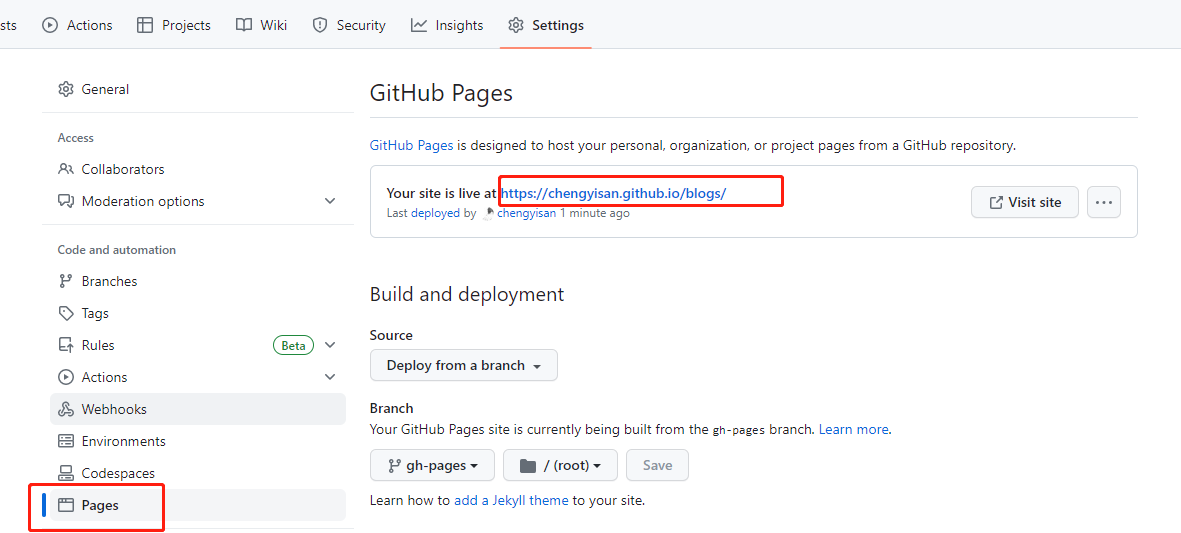
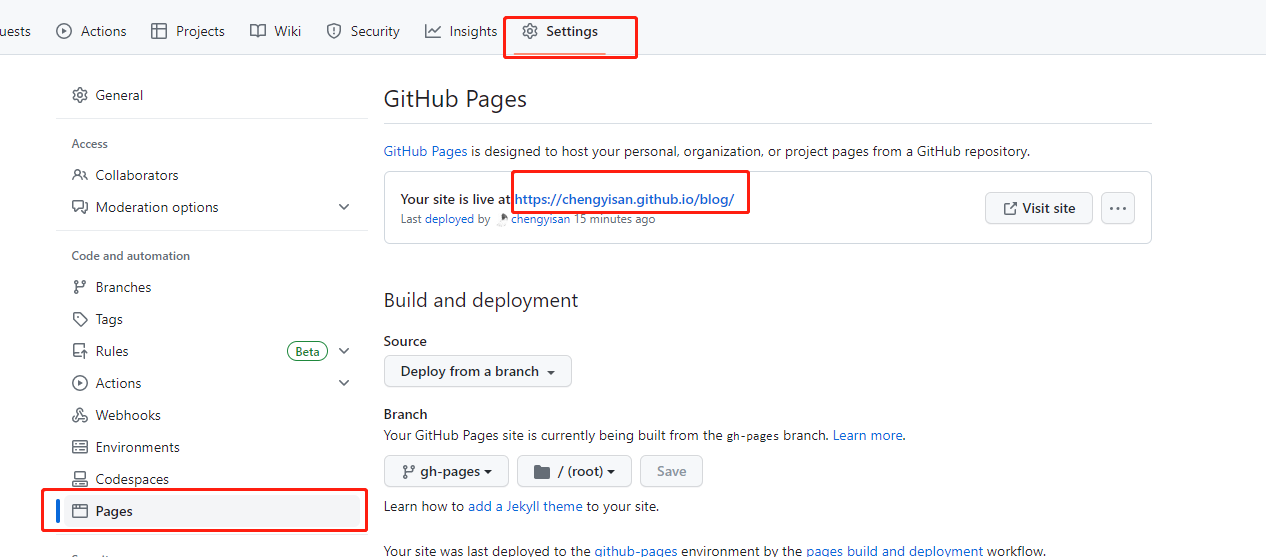
feat(图片):  修改替换

diff --git a/docs/start/README.md b/docs/start/README.md
@@ -371,7 +371,7 @@ VuePress默认是绿色，可以修改成自己喜欢的颜色。在.vuepress文
 
 ## Github.io部署
 
-首先在Github上新建一个仓库，这里取名blogs：
+首先在Github上新建一个仓库，这里取名blog：
 
 ![avatar](/image/part_11.png)
 
@@ -381,7 +381,7 @@ VuePress默认是绿色，可以修改成自己喜欢的颜色。在.vuepress文
   module.exports = {
     ...
     // 和仓库名保持一致
-    base: "/blogs/",
+    base: "/blog/",
     themeConfig: {...},
     ...
   }
@@ -393,7 +393,7 @@ VuePress默认是绿色，可以修改成自己喜欢的颜色。在.vuepress文
   module.exports = {
     title: "XXX的网页",
     description: "菜鸟的尝试",
-    base: "/blogs/",
+    base: "/blog/",
     locales: {
       "/": {
         lang: "zh-CN",
@@ -455,7 +455,7 @@ VuePress默认是绿色，可以修改成自己喜欢的颜色。在.vuepress文
   git commit -m 'deploy'
 
   # 如果发布到 https://<USERNAME>.github.io/<REPO>
-  git push -f git@github.com:chengyisan/blogs.git master:gh-pages
+  git push -f git@github.com:chengyisan/blog.git master:gh-pages
 
   cd -
 ```
@@ -468,6 +468,10 @@ VuePress默认是绿色，可以修改成自己喜欢的颜色。在.vuepress文
 
 ![avatar](/image/part_13.png)
 
-最后生成的地址：<https://chengyisan.github.io/blogs/>
+最后生成的地址：<https://chengyisan.github.io/blog/>
 
 至此，我们完成了 VuePress 和 Github Pages 的部署。
+
+## 一些补充
+
+### 1.全局组件的引用
